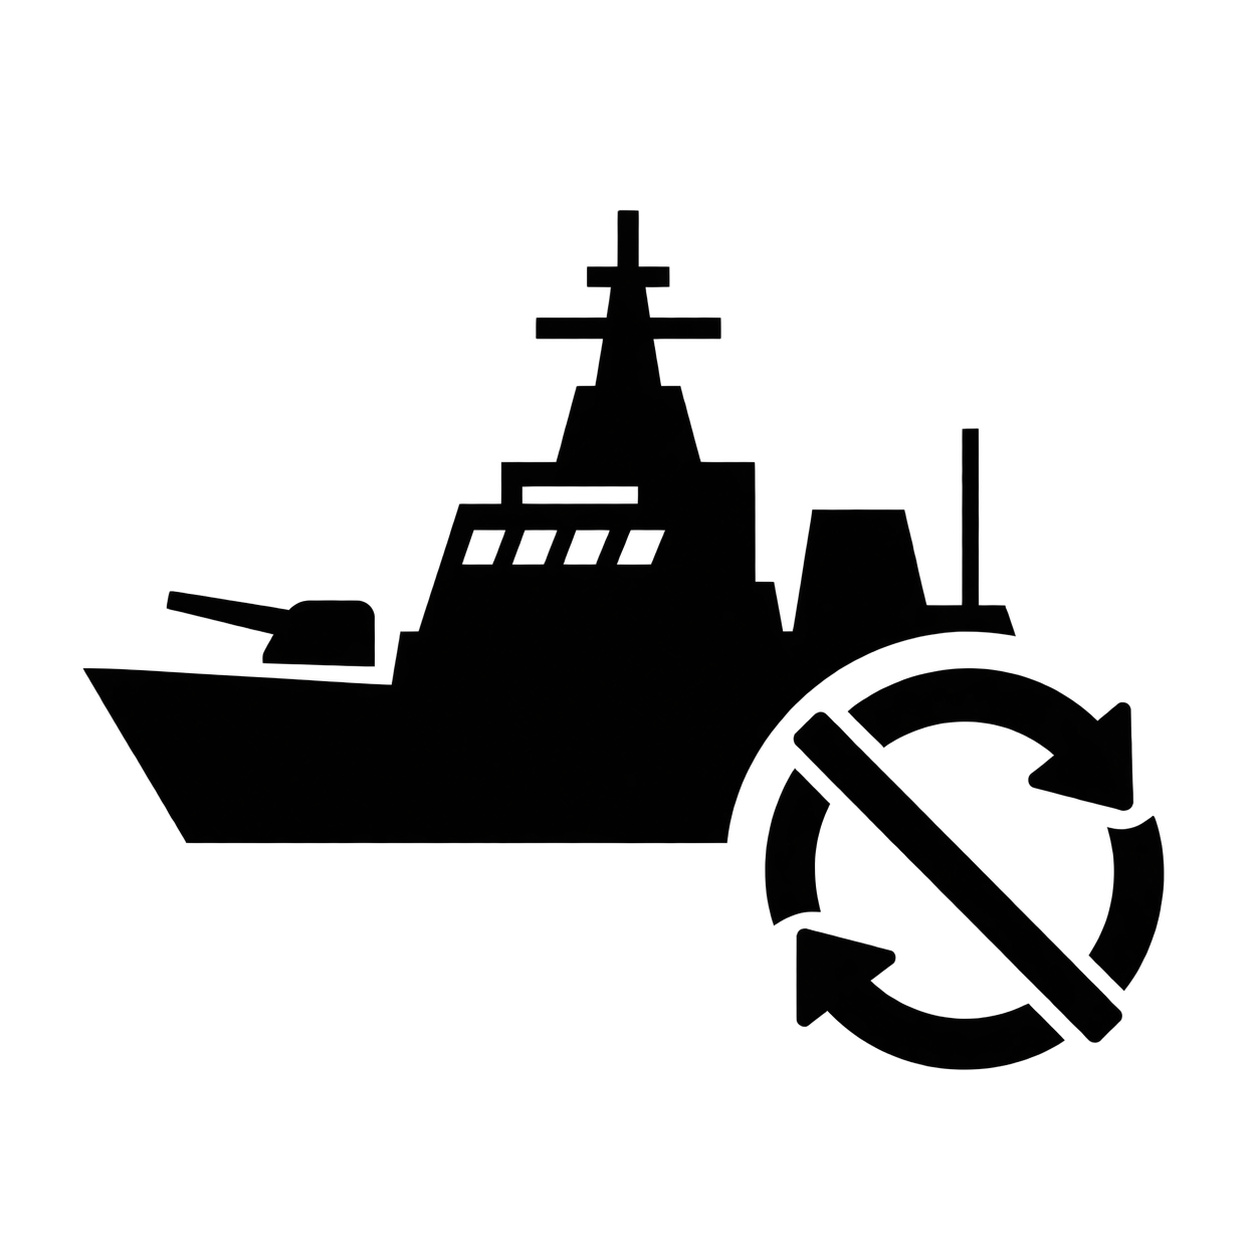
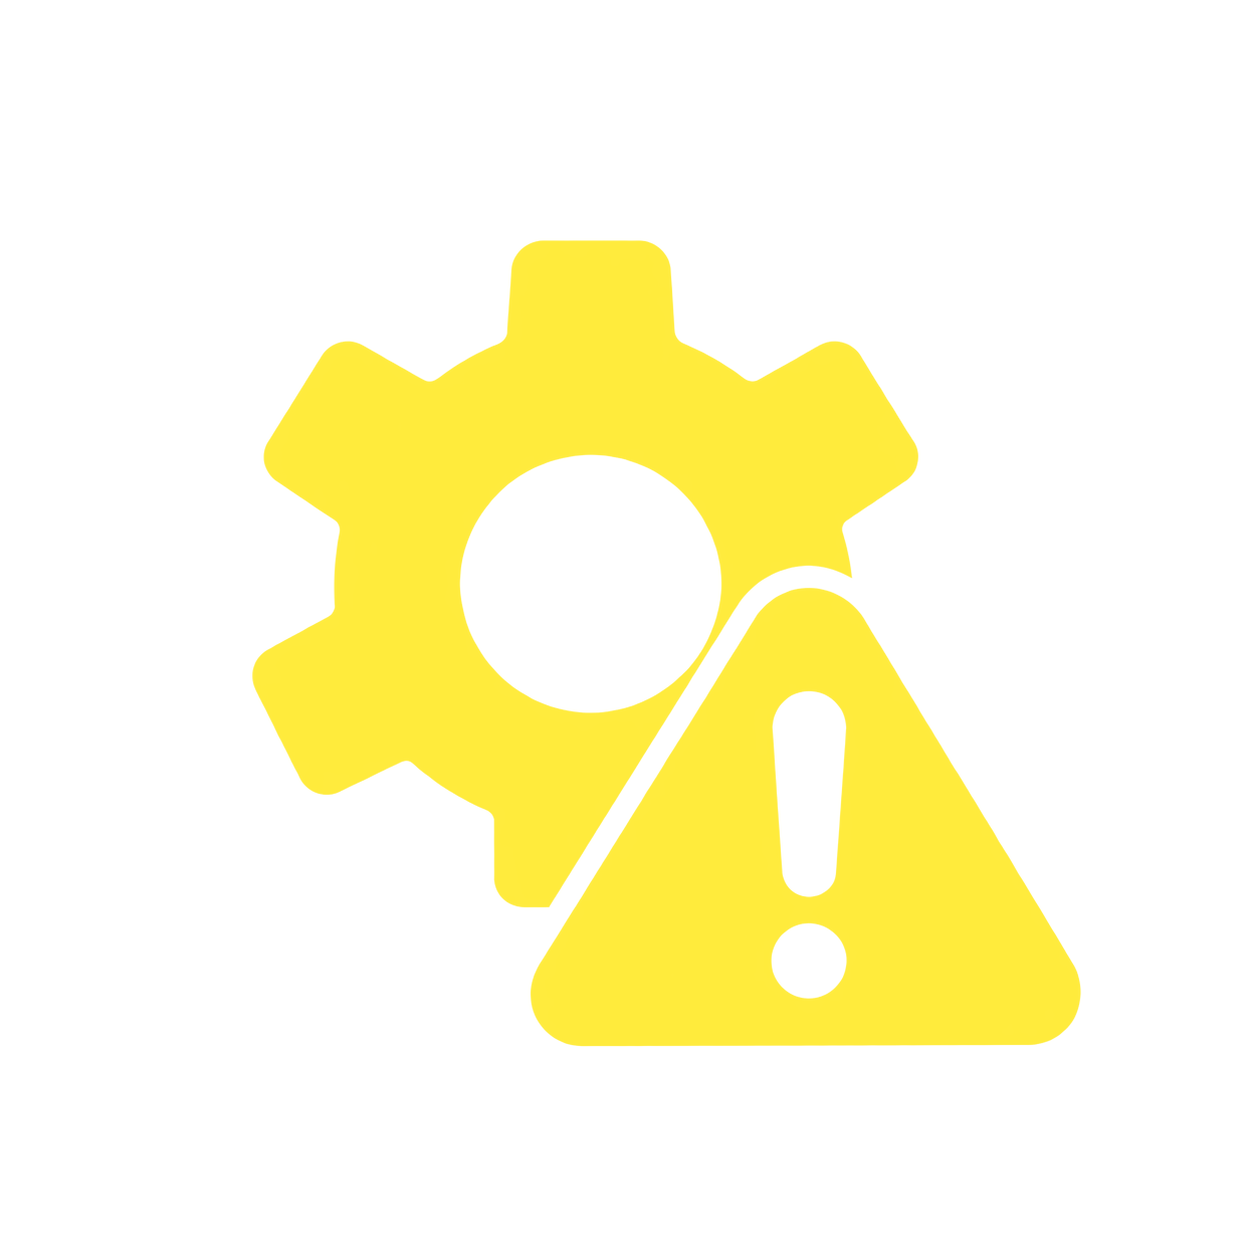
fix: 解析停止通知を最新の黄色アイコンに差し替え

diff --git a/icons/dashboard/README.md b/icons/dashboard/README.md
@@ -17,4 +17,4 @@
 
 ## 解析停止通知
 
-FleetUpdateStopped.png は艦船と斜線付き更新矢印を組み合わせた黒一色の透過PNG。ダッシュボード先頭の解析停止通知に使用する。独自生成した候補から採用した。
+FleetUpdateStopped.png は歯車と警告三角形を組み合わせた黄色 #FFEB3B の透過PNG。ダッシュボード先頭の解析停止通知に使用する。最新の黄色候補を採用し、黒い艦船・更新矢印版を置き換えた。
